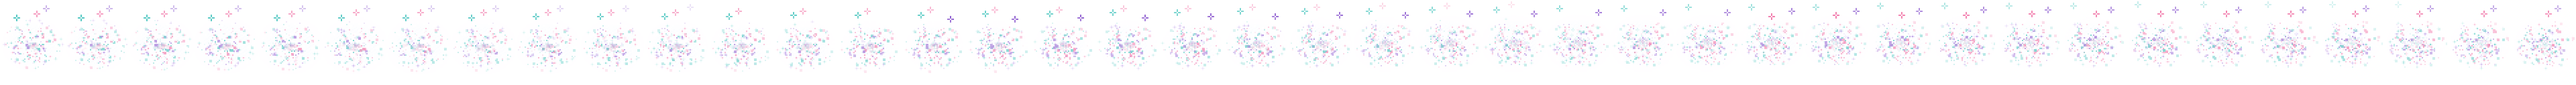
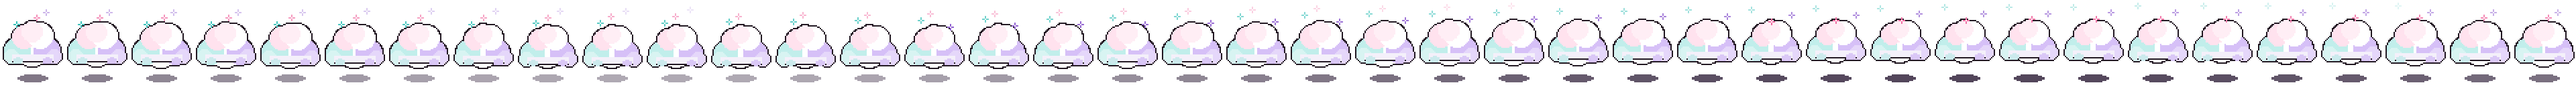
Dance Sisters v51: back to the soft cloud for the Spirit of Dance (the owner's choice)
Claude-Session: https://claude.ai/code/session_01KjbiH1Gxo3FA48ifQDakKd

diff --git a/dance/style.css b/dance/style.css
@@ -152,8 +152,8 @@ i.cn { display: inline-block; width: 16px; height: 16px; background: url('art/co
 .ib[hidden] { display: none; }
 
 /* the Spirit of Dance: a semi-transparent cloud sized by its level (--ss), the level number in the middle */
-.beast.spirit .spr { opacity: .85; transform: scale(var(--ss, 1)); transform-origin: 50% 100%; }
-.beast.spirit .sn { position: absolute; left: 50%; bottom: calc(50px * var(--ss, 1)); transform: translateX(-50%) scale(calc(var(--ss, 1) * 1.6)); transform-origin: 50% 50%; pointer-events: none; font-size: 0; line-height: 0; }
+.beast.spirit .spr { opacity: .8; transform: scale(var(--ss, 1)); transform-origin: 50% 100%; }
+.beast.spirit .sn { position: absolute; left: 50%; bottom: calc(60px * var(--ss, 1)); transform: translateX(-50%) scale(calc(var(--ss, 1) * 1.6)); transform-origin: 50% 50%; pointer-events: none; font-size: 0; line-height: 0; }
 .beast.spirit .sn .pt { filter: none; }
 .beast.spirit .sn .pt i { background-image: url('art/font.png'); }
 #hardTag { color: #ff8a5c; font-weight: 800; font-size: 13px; margin-left: 4px; }

diff --git a/dance/app.js b/dance/app.js
@@ -4,7 +4,7 @@
    decision, 30 Oct 2026: the names are fixed in the game); a level is "<stage> <name>". Save in
    localStorage['dance.save']; nothing is sent anywhere. */
 'use strict';
-const APP_VERSION = '50';
+const APP_VERSION = '51';
 const ART = 'art/'; let ART_V = '';
 const NAMES = ['Lainey', 'Miri', 'Juliette'];   // youngest first
 let SPEC = null;
@@ -119,7 +119,7 @@ const earns = b => RATE(b.lv) * (b.lv === SPIRIT ? (b.sl || 1) : 1);   // the Sp
 const income = () => Object.values(save.fields).flat().reduce((s, b) => s + earns(b), 0);
 /* the Spirit of Dance: a level 1–100 in the middle of the cloud, which grows at 10 / 30 / 50 / 75; at 100 the game is won */
 const SPIRIT_MAX = 100;
-const spiritScale = sl => sl >= 75 ? 1.45 : sl >= 50 ? 1.25 : sl >= 30 ? 1.08 : sl >= 10 ? .92 : .78;
+const spiritScale = sl => sl >= 75 ? 1.25 : sl >= 50 ? 1.1 : sl >= 30 ? .95 : sl >= 10 ? .8 : .65;
 
 /* ---------- the field ---------- */
 function mount() {

diff --git a/dance/sw.js b/dance/sw.js
@@ -1,6 +1,6 @@
 // Dance Evolution service worker: the app shell is cached on install; the beast pictures and anything else under ../art
 // are cached as they are first fetched (cache first after that). Bump CACHE together with APP_VERSION in app.js.
-const CACHE = 'dance-v50';
+const CACHE = 'dance-v51';
 const SHELL = ['./', 'index.html', 'app.js', 'style.css', 'manifest.webmanifest', 'dancers.json', 'art/font.json', 'art/font.png', 'art/font_w.png'];
 self.addEventListener('install', e => { e.waitUntil(caches.open(CACHE).then(c => Promise.all(SHELL.map(u => c.add(u).catch(() => {})))).then(() => self.skipWaiting())); });
 // on activation, anything the new cache is missing (a shell file whose install fetch failed on a poor connection) is copied

diff --git a/CLAUDE.md b/CLAUDE.md
@@ -622,7 +622,7 @@ The Merge Beasts engine with **dancers**, at **latin.musicalmagic.uk/dance/** (`
 wording and sprites swapped; same save shape in `localStorage['dance.save']`). **The chain is 36 stages × 3 sisters = 108
 levels (v36: the owner wants twelve characters in every room, so nine rooms × four stages; `sisters7.py`; `load` remaps a save from the 20-stage chain by stage name, `save.chainv` = 2)** (`dance/dancers.json`: stage, sister, stageName, sheet, frames, top, crawl; worlds by stage, four each: Nursery 0–3 (Baby, Tot, **Birthday** — party hat, striped top, a balloon; a bounce, a sway and claps, a twirl — Nursery), Dance school 4–7 (Leotard, Dance school, First tutu, Jazz),
 Ballet theatre 8–11 (En pointe, Swan, **Sugar Plum** — the Nutcracker fairy, lilac tutu dotted in her colour, a wand; hops on pointe, a port de bras, piqué turns — Prima), City stage 12–15 (Street, **Tap** — waistcoat, bowler, black tap shoes; shuffle-hop, soft-shoe sway, pivot and stamp — **Salsa** — ruffles, red heels, hoop earrings; the basic step, hip sway, the cross-body turn — Stage star), World tour 16–19 (World tour, **Bollywood** — orange choli, gold bangles, a flower; shoulder bounces and jumps, wrist circles and the head slide, a spin — Movie star, Royal gala), Academy 20–23 (Teacher, **Examiner** — grey suit, a clipboard; marks, a nod, a hop — **Judge** — sequinned jacket, the "10" paddle — **Graduate** — gown and mortarboard; a jump for joy, hand on heart, a wave; `bg_academy`: a hall with three portraits, a trophy cabinet, a red carpet), **Studio 24–27** (**Rehearsal** — leggings, leg warmers `warmers`, a water bottle; star jumps, stretches, a lunge — Choreographer, **Dance captain** — black tee with her star; counts and jumps, arm sweeps, turning to the line — **Coach** — tracksuit and cap; squats, stretches, claps; `bg_studio`: a mirror wall with the cast reflected, a barre, a whiteboard, a chair, a boombox, tape marks), **Stage door 28–31** (**Understudy** — rehearsal greys, the script; Director, **Leading lady** — feather boa `collar: 'boa'`, long gloves; a kick, the boa sweep, a spin — **Producer** — the suit, a phone; `bg_stagedoor`: backstage bricks, the star door and its sign, a lamp, a costume rail, a flight case, a rope), **Hall of fame 32–35** (Icon, **Statue** — gold from head to toe, `skin_override` / `hairc_override`; a held pose and a bounce, a slow shimmer, a slow turn — **Superstar** — gold fringe and gloves, a boa; a leap, the sweep, a spin — Legend; new hats `partyhat` / `bowler` / `mortar`, props `wand` / `clipboard` / `paddle` / `bottle` / `script` / `phone`; `bg_hall`: spotlights, three framed stars in the sisters' colours, a chandelier, a marble plinth with a gold star, velvet ropes, a red carpet; `scratchpad/dancers/rooms2.py`) — **`load` migrates saves when rooms are split (v35)**: every dancer moves to the room of her stage, a bag that pointed into a later room moves there (clamped inside each room's levels), and the open rooms follow what has been made; stages: Baby, Tot, Nursery, Leotard, Dance school, First tutu,
-Jazz, En pointe, Swan, Prima, Street, Stage star, World tour, Movie star (dark bodice, long gown, flashbulbs), Royal gala (pale gown, tiara, a waltz), Teacher (bun, cardigan, black skirt, cane), **Choreographer** (all black, headset, shoes in her colour: marking the counts / arm cues / a spin to face the cast), **Director** (dark coat, red scarf: the bow from the wings), **Icon** (her colour head to toe, a silver streak: her earliest move perfected — Lainey's toddler jump as a tuck jump, Miri's sway as swan arms, Juliette's wobbly twirl as a clean double pirouette), Legend; `DESC` one line each). **The economy (31 Oct 2026, after the owner's daughters finished the first version in an afternoon)**: a better bag costs `crateUpCost` = 300 × 1.38^L (1.45 until v36; 108 levels) and **must be earned — the dancer three levels above the bag has to have been made by merging first** (`GATE` = 3, the owner's rule on 31 Oct 2026 after one level proved too easy and two had looked like a bug; near the end the gate is the last dancer; `crateGate` / `crateEarned`, `save.seen`; the shop row says "Locked: make … by merging first" and the button reads 🔒 Locked instead of a price), an Invite is `priceOf` = 40 × 1.35^L. **The Spirit of Dance (v46)**: level 108, stage 36, the one level above Legend Juliette — **two Legend Juliettes merge into it** (the owner's ask): a nebulous cloud of energy, not a weather cloud (v48, after the owner's reference picture): a bright white core with pixel flecks scattering outwards and thinning, mostly white with glowing flecks in the three sisters' colours, drifting and twinkling, three sparkles above (`scratchpad/dancers/spirit.py`, 40 frames, `art/s37_1.png`, drawn at 48 × 64 and doubled; `sisters7.py` appends it on every rebuild), `sister: -1` in `dancers.json`, `spirit: true` in `CHAIN`, named "Spirit of / Dance" above the cloud (`lvHTML`), fanfare kicker "✨ THE SPIRIT OF DANCE ✨", `save.spirit` the first time; **it has a level (v47)**: `b.sl` 1–100 (`SPIRIT_MAX`), shown in the middle of the cloud in the dark pixel font (`.sn`), a Spirit absorbs a Legend Juliette (+1, dragged either way) or another Spirit (the levels add; `canMerge`), it is moved like any dancer, its Dancepedia line is "The spirit grows." (`DESC[36]`), the cloud is semi-transparent (`.beast.spirit .spr` opacity .8) and **grows at 10 / 30 / 50 / 75** (`spiritScale` .78 → .92 → 1.08 → 1.25 → 1.45, `--ss`), earns its level × a dancer's rate (`earns`); **level 100 wins the game** (`won()`, once, `save.won`: the owner's words — "Congratulations … The girls have gone beyond being physical dancers and have become the universal spirit of dance itself …" — with RESTART ON HARD MODE and Keep playing; the Hall offers it again once won). **Hard mode** (`hardMode`, `save.hard` counts restarts): everything is undone — dancers, coins, bags, upgrades, Dancepedia, stars, encores — and `RATE` is halved per hard restart; a `#hardTag` after the rate in the top bar; it lives in the Hall of fame (`stages: [32, 36]`); bags never bring it (`canUp` stops at `CHAIN.length - 2`); two Spirits cannot merge (the Hall opens) and a Spirit or a Legend Juliette can be retired (`isFinal` = `LEGEND` or `SPIRIT`, both set in `buildChain`). **The ending** (`discover` on `LEGEND` = Legend Juliette, not the last level → `finale`, once, `save.finished`; the trio is `CHAIN.slice(LEGEND - 2, LEGEND + 1)`): a curtain-call overlay (`.finale`: red curtains part, the three Legends dancing, a pixel trophy `art/trophy.png`, confetti, "You did it!"), then the **Hall of Fame** (`hall`, the 🏆 button in the top bar, shown once finished): two Spirits cannot merge (a merge of two opens the Hall instead) — **Retire a Legend** removes a final-level dancer from the stage for a ⭐ (`save.stars`) and two hours' income; **Encore** (`save.encore`) starts the show again from the cot with +50 % earnings per encore for ever (`RATE`), keeping upgrades, stars and the Dancepedia. **The sisters' names are fixed in `NAMES` in `dance/app.js`** (youngest first) — the
+Jazz, En pointe, Swan, Prima, Street, Stage star, World tour, Movie star (dark bodice, long gown, flashbulbs), Royal gala (pale gown, tiara, a waltz), Teacher (bun, cardigan, black skirt, cane), **Choreographer** (all black, headset, shoes in her colour: marking the counts / arm cues / a spin to face the cast), **Director** (dark coat, red scarf: the bow from the wings), **Icon** (her colour head to toe, a silver streak: her earliest move perfected — Lainey's toddler jump as a tuck jump, Miri's sway as swan arms, Juliette's wobbly twirl as a clean double pirouette), Legend; `DESC` one line each). **The economy (31 Oct 2026, after the owner's daughters finished the first version in an afternoon)**: a better bag costs `crateUpCost` = 300 × 1.38^L (1.45 until v36; 108 levels) and **must be earned — the dancer three levels above the bag has to have been made by merging first** (`GATE` = 3, the owner's rule on 31 Oct 2026 after one level proved too easy and two had looked like a bug; near the end the gate is the last dancer; `crateGate` / `crateEarned`, `save.seen`; the shop row says "Locked: make … by merging first" and the button reads 🔒 Locked instead of a price), an Invite is `priceOf` = 40 × 1.35^L. **The Spirit of Dance (v46)**: level 108, stage 36, the one level above Legend Juliette — **two Legend Juliettes merge into it** (the owner's ask): a soft cloud with hints of the three sisters' colours (teal left, pink top, purple right, three sparkles in their colours, no face; `scratchpad/dancers/spirit.py`, 40 frames, `art/s37_1.png`, drawn at 48 × 64 and doubled; `sisters7.py` appends it on every rebuild) — **the owner chose this over an energy-nebula version (v48–v50, kept in `spirit_nebula.py`): "go back to this version, it was better"**, `sister: -1` in `dancers.json`, `spirit: true` in `CHAIN`, named "Spirit of / Dance" above the cloud (`lvHTML`), fanfare kicker "✨ THE SPIRIT OF DANCE ✨", `save.spirit` the first time; **it has a level (v47)**: `b.sl` 1–100 (`SPIRIT_MAX`), shown in the middle of the cloud in the dark pixel font (`.sn`), a Spirit absorbs a Legend Juliette (+1, dragged either way) or another Spirit (the levels add; `canMerge`), it is moved like any dancer, its Dancepedia line is "The spirit grows." (`DESC[36]`), the cloud is semi-transparent (`.beast.spirit .spr` opacity .8) and **grows at 10 / 30 / 50 / 75** (`spiritScale` .65 → .8 → .95 → 1.1 → 1.25, `--ss`), earns its level × a dancer's rate (`earns`); **level 100 wins the game** (`won()`, once, `save.won`: the owner's words — "Congratulations … The girls have gone beyond being physical dancers and have become the universal spirit of dance itself …" — with RESTART ON HARD MODE and Keep playing; the Hall offers it again once won). **Hard mode** (`hardMode`, `save.hard` counts restarts): everything is undone — dancers, coins, bags, upgrades, Dancepedia, stars, encores — and `RATE` is halved per hard restart; a `#hardTag` after the rate in the top bar; it lives in the Hall of fame (`stages: [32, 36]`); bags never bring it (`canUp` stops at `CHAIN.length - 2`); two Spirits cannot merge (the Hall opens) and a Spirit or a Legend Juliette can be retired (`isFinal` = `LEGEND` or `SPIRIT`, both set in `buildChain`). **The ending** (`discover` on `LEGEND` = Legend Juliette, not the last level → `finale`, once, `save.finished`; the trio is `CHAIN.slice(LEGEND - 2, LEGEND + 1)`): a curtain-call overlay (`.finale`: red curtains part, the three Legends dancing, a pixel trophy `art/trophy.png`, confetti, "You did it!"), then the **Hall of Fame** (`hall`, the 🏆 button in the top bar, shown once finished): two Spirits cannot merge (a merge of two opens the Hall instead) — **Retire a Legend** removes a final-level dancer from the stage for a ⭐ (`save.stars`) and two hours' income; **Encore** (`save.encore`) starts the show again from the cot with +50 % earnings per encore for ever (`RATE`), keeping upgrades, stars and the Dancepedia. **The sisters' names are fixed in `NAMES` in `dance/app.js`** (youngest first) — the
 owner's explicit decision on 30 Oct 2026, reaffirmed after the risk of a public repo was put to him; this is the one
 exception to the no-names rule above and it covers the three first names only (no surnames, ages, school or photos — the
 photos he sent to set the looks are not in the repo and must never be); a level is `nameOf(c)` = "<stage> <name>". **The art is the cute 48 × 64 chibi style the owner's daughters loved (v24), chosen again on 31 Oct 2026 after a higher-resolution, likeness-driven redraw (fig4 / sisters4, hand-pixelled heads, kept in the session scratchpad with the research and the plan) was rejected: "not recognisable, and we've lost the cute look"** — at a 30-px face a likeness is carried by hair, colour, size and movement, not by drawing the face. The looks, youngest first: Lainey dark-brown wavy hair pulled back for class (bunches with blue bows at Nursery), simple smile; Miri a mass of dark curls with a centre parting (`curly`), a small grin; Juliette long straight dark hair, tallest, a small grin. **Each sister has a colour family for every costume** (`COL` in `sisters5.py`: Lainey teal, Miri pink, Juliette purple — main / light / dark; the Swan tutu stays white and the Legend gown gold, with the sister's colour on the bodice or panel), and **every stage has its own combination of silhouette, tone, pattern or second colour, legwear, hair or hat and prop** (v32, after the girls found many too similar; `STAGES` in `sisters6.py`; `fig3` options `pattern` dots / stripes / star / sash, `patc`, `gloves`, `collar`, hats and hair `tophat` / `beret` / `hood` / `updo` / `pony` / `bunches`, props `flowers` / `balloon` / `clapper`): Baby nappy; Tot dotted top + tiny tutu, hair down; Nursery party dress with a white collar, a balloon, bunches / curls / ponytail; Leotard pale leotard + white tights; Dance school bun, black practice skirt, pink tights; First tutu dark bodice with a gold sash, big pale tutu, bow / tiara / flower; Jazz striped top, black skirt and tights, a top hat; En pointe white leotard, her tutu, ribbons, bun; Swan all white with her sash and a tiara; Prima dark bodice, her tutu, pink tights, a bouquet, hair up high; Street tee, jeans, trainers, cap / ponytail; Stage star black sequin top, her fringe, gold shoes, mic / star; World tour flamenco ruffles / coin skirt / fan gown; Movie star gold top, her long gown, long gloves, a clapperboard, updo; Royal gala pale gown, white gloves, red sash, tiara; Teacher cardigan with a white collar, black wrap skirt, cane, bun; Choreographer her hoodie, black joggers, headset; Director black coat, red scarf, black beret; Icon her colour head to toe with a white star and the silver streak; Legend gold head to toe with her panel, gold gloves, a star above her — then the stages above. **Art**: 16-bit-style pixel sprites, **the cute 48-unit chibi design drawn at 96 × 128 (v31)** — `fig5.py` runs `fig3`'s body through the doubling canvas (`S2`, finer 1-px outline and shading, the big head and simple dark eyes kept; `facekind` small / round / tall gives Lainey smaller cheerful eyes and Juliette taller ones) — drawn by the session scratchpad generators `scratchpad/dancers/fig2.py` (the palette and the first figure) and **`sisters6.py` (= `sisters5.py` on `figure5`, with secondary motion: the skirt `tdy` and the head lag the body's rise and fall by a frame) + `fig3.py` / `fig5.py`** (`choreography.md`, `plan.md`, `brief.md` and the three `research_*.md` beside them): **each sister has a movement personality that holds through every stage, so she is known without her name — Lainey jumps (lifts, squats, leaps), Miri flows (arms, balances, sways, head tilts), Juliette turns (spins, footwork, clean finishes)** — and **the moves climb a real ladder** (toddler bounce / sway / tiptoe / gallop → primary-class pliés, tendus, sautés, port de bras → arabesque, échappé, pas de chat, développé, a single pirouette → jazz kick-ball-change, isolations, jazz square + pivot → pointe échappés, bourrée, piqué turns → swan sissonnes, swan arms + penché, bourrée en tournant → grand jeté, attitude promenade, fouettés → running man, body wave, two-step + freeze → kick line + split leap, mic turn, chaînés → flamenco / belly dance / fan dance → red carpet, a waltz, teaching, choreographing, the director's bow, the icon's perfected first move → grand jeté manège, penché, fouettés, all into a révérence); the Baby crawls (Lainey fast then bum-bounces; Miri sits rocking and clapping with a short crawl; Juliette crawls and pushes up to kneel). Keyframes are eased to 32 frames (40 for Baby, Prima, Legend). `fig3.figure3` takes a continuous `pose` — limb endpoints, optional knees `lk/rk`, elbows `le/re`, `sink` (hips drop for a plié), lean, bend, lift, `pointe`, `jazz` hands, a `turn` that **rotates the body in depth (v37, after the owner saw World tour Juliette "split in half" by the old squash-and-mirror spin): `vc`/`vs` = cos/sin of the angle; every sideways offset (feet, knees, hands, elbows, shoulders) is scaled by cos, the torso and skirts narrow to no less than 42 %, a tutu stays a disc, the far arm is drawn behind the body, patterns and the gown panel only show from the front, and `draw_head` slides the features round the head (one eye in profile) and covers the face with hair from behind (`s.view`)**, and for babies `tilt` 0 crawl → 1 sit, `knees` 1 kneel, `stride`; `loop(keys, n)` eases between weighted keyframes, `turn` always forwards — → `dance/art/sNN_G.png` horizontal sprite sheets + `dancers.json`; the older `sisters.py` / `fig2.figure` drew the first 6–8 still poses); `spriteHTML(c, scale)` shows a sheet as a
